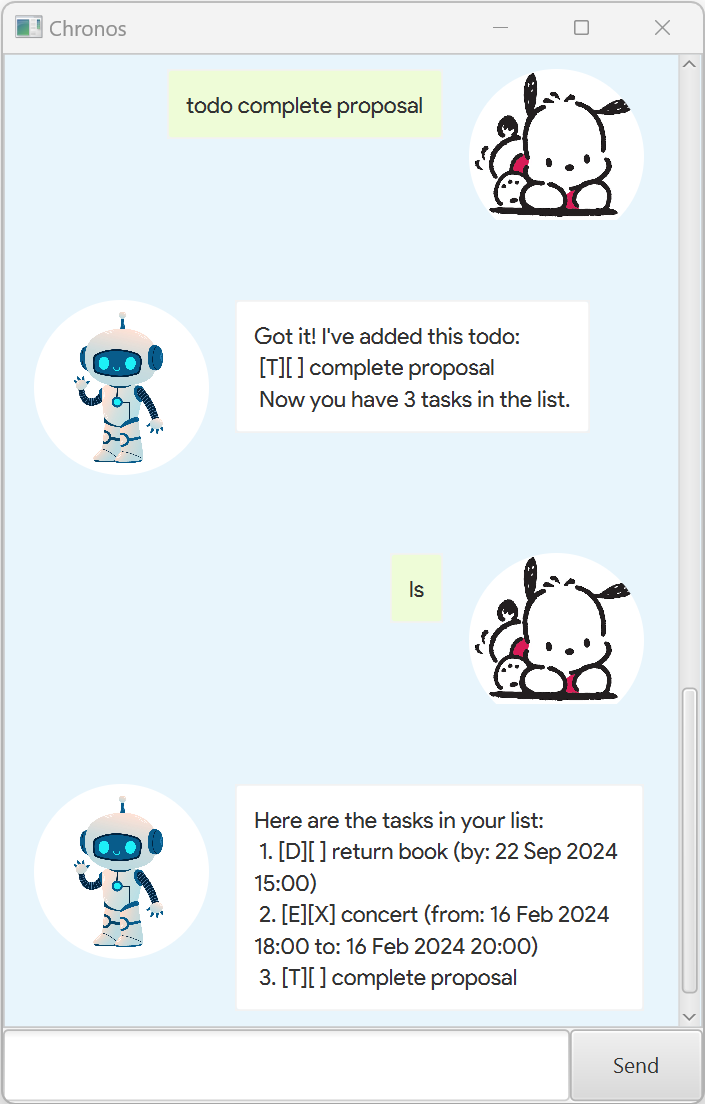
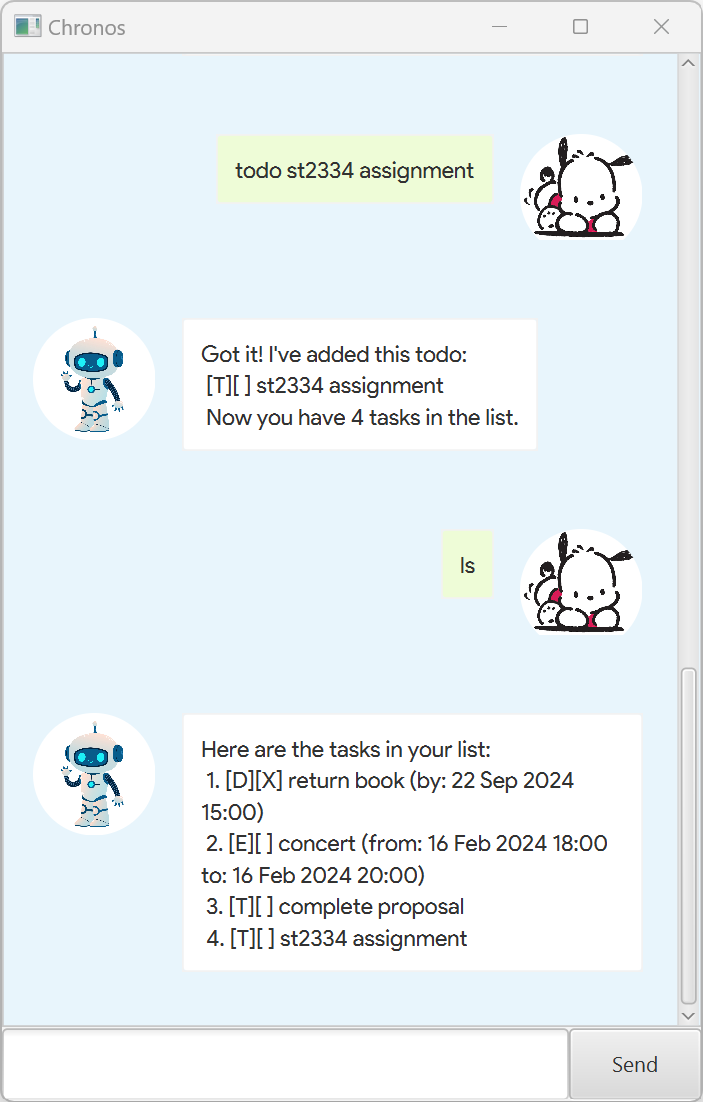
Reduce size of profile image

diff --git a/src/main/java/gui/DialogBox.java b/src/main/java/gui/DialogBox.java
@@ -77,8 +77,8 @@ public class DialogBox extends HBox {
      */
     private void customiseDialogBoxImage(Image img) {
         displayPicture.setImage(img);
-        displayPicture.setFitWidth(100.0);
-        displayPicture.setFitHeight(100.0);
+        displayPicture.setFitWidth(70.0);
+        displayPicture.setFitHeight(70.0);
 
         Circle clip = new Circle(displayPicture.getFitWidth() / 2, displayPicture.getFitHeight() / 2,
                 displayPicture.getFitWidth() / 2);
